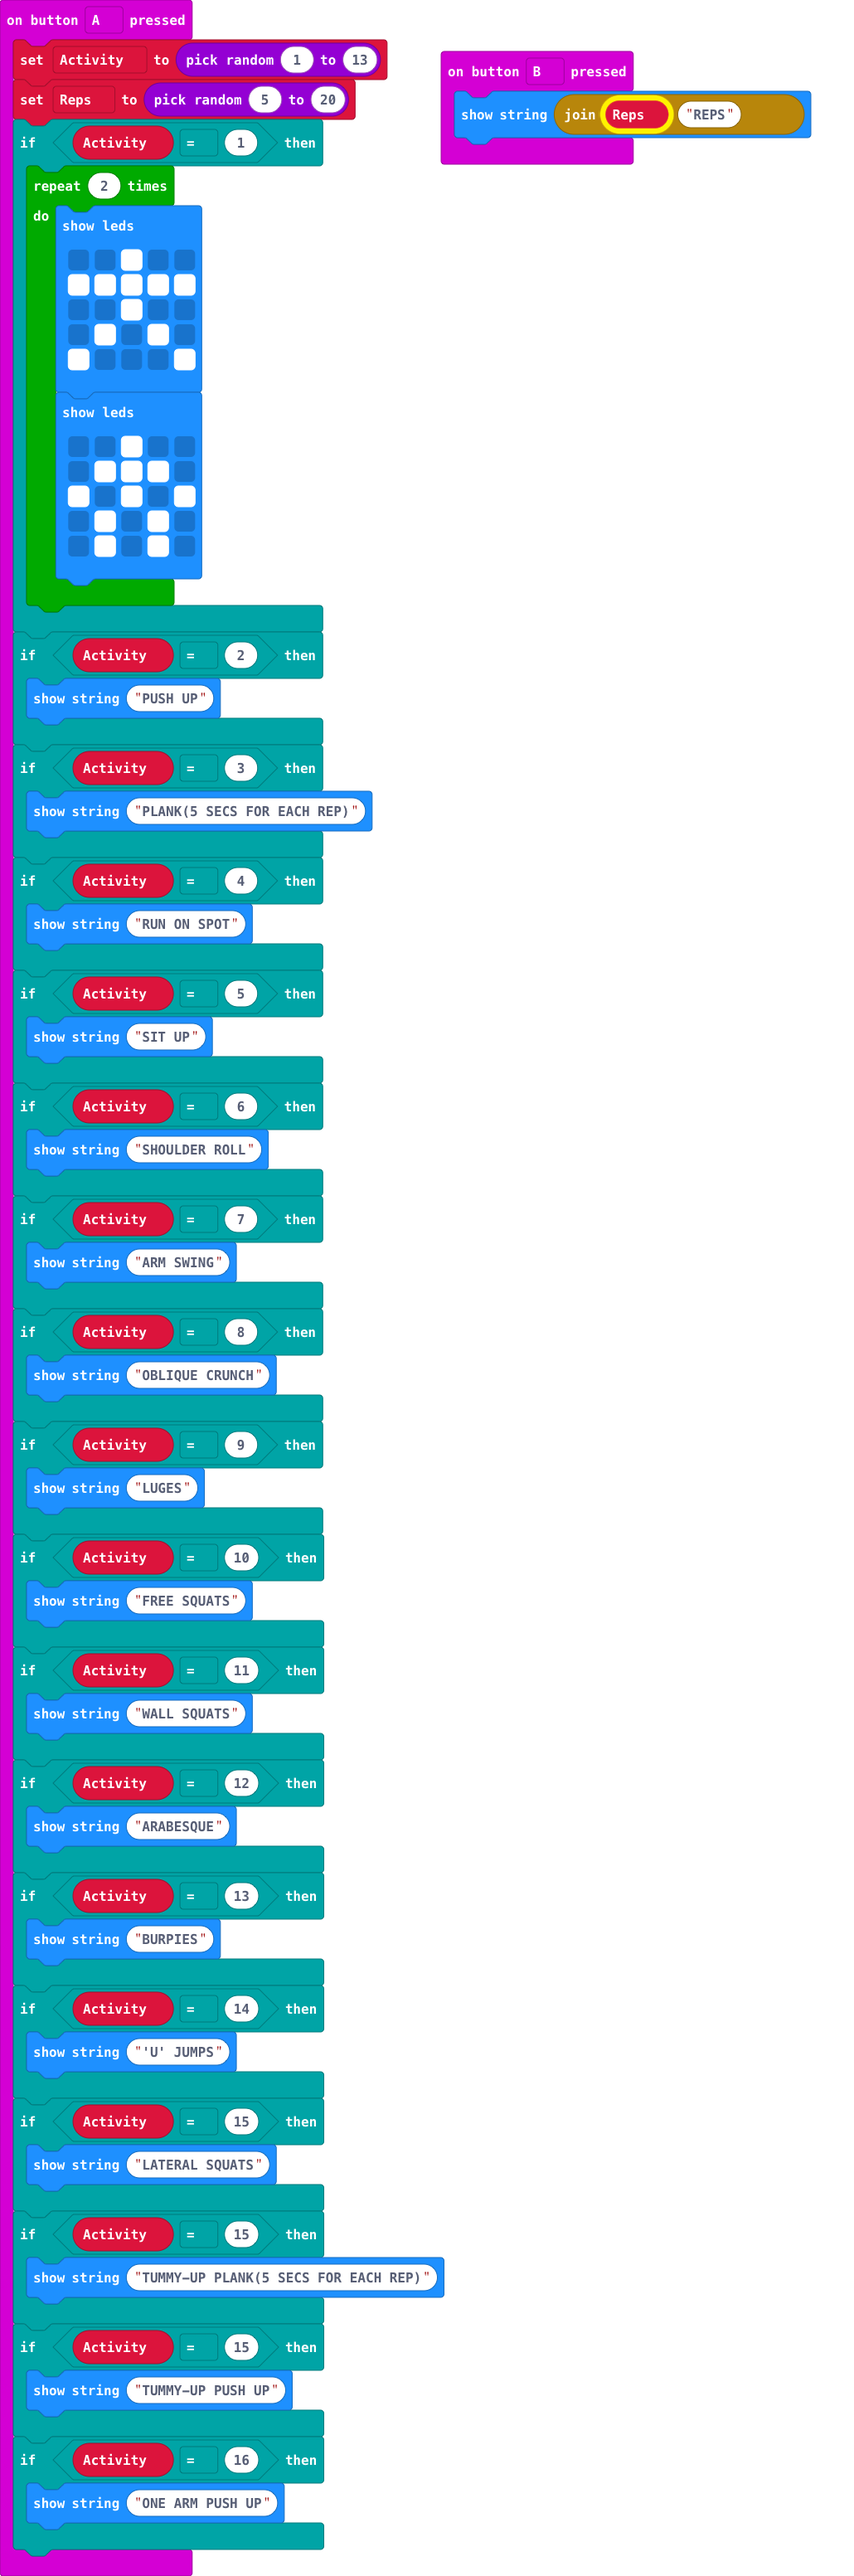
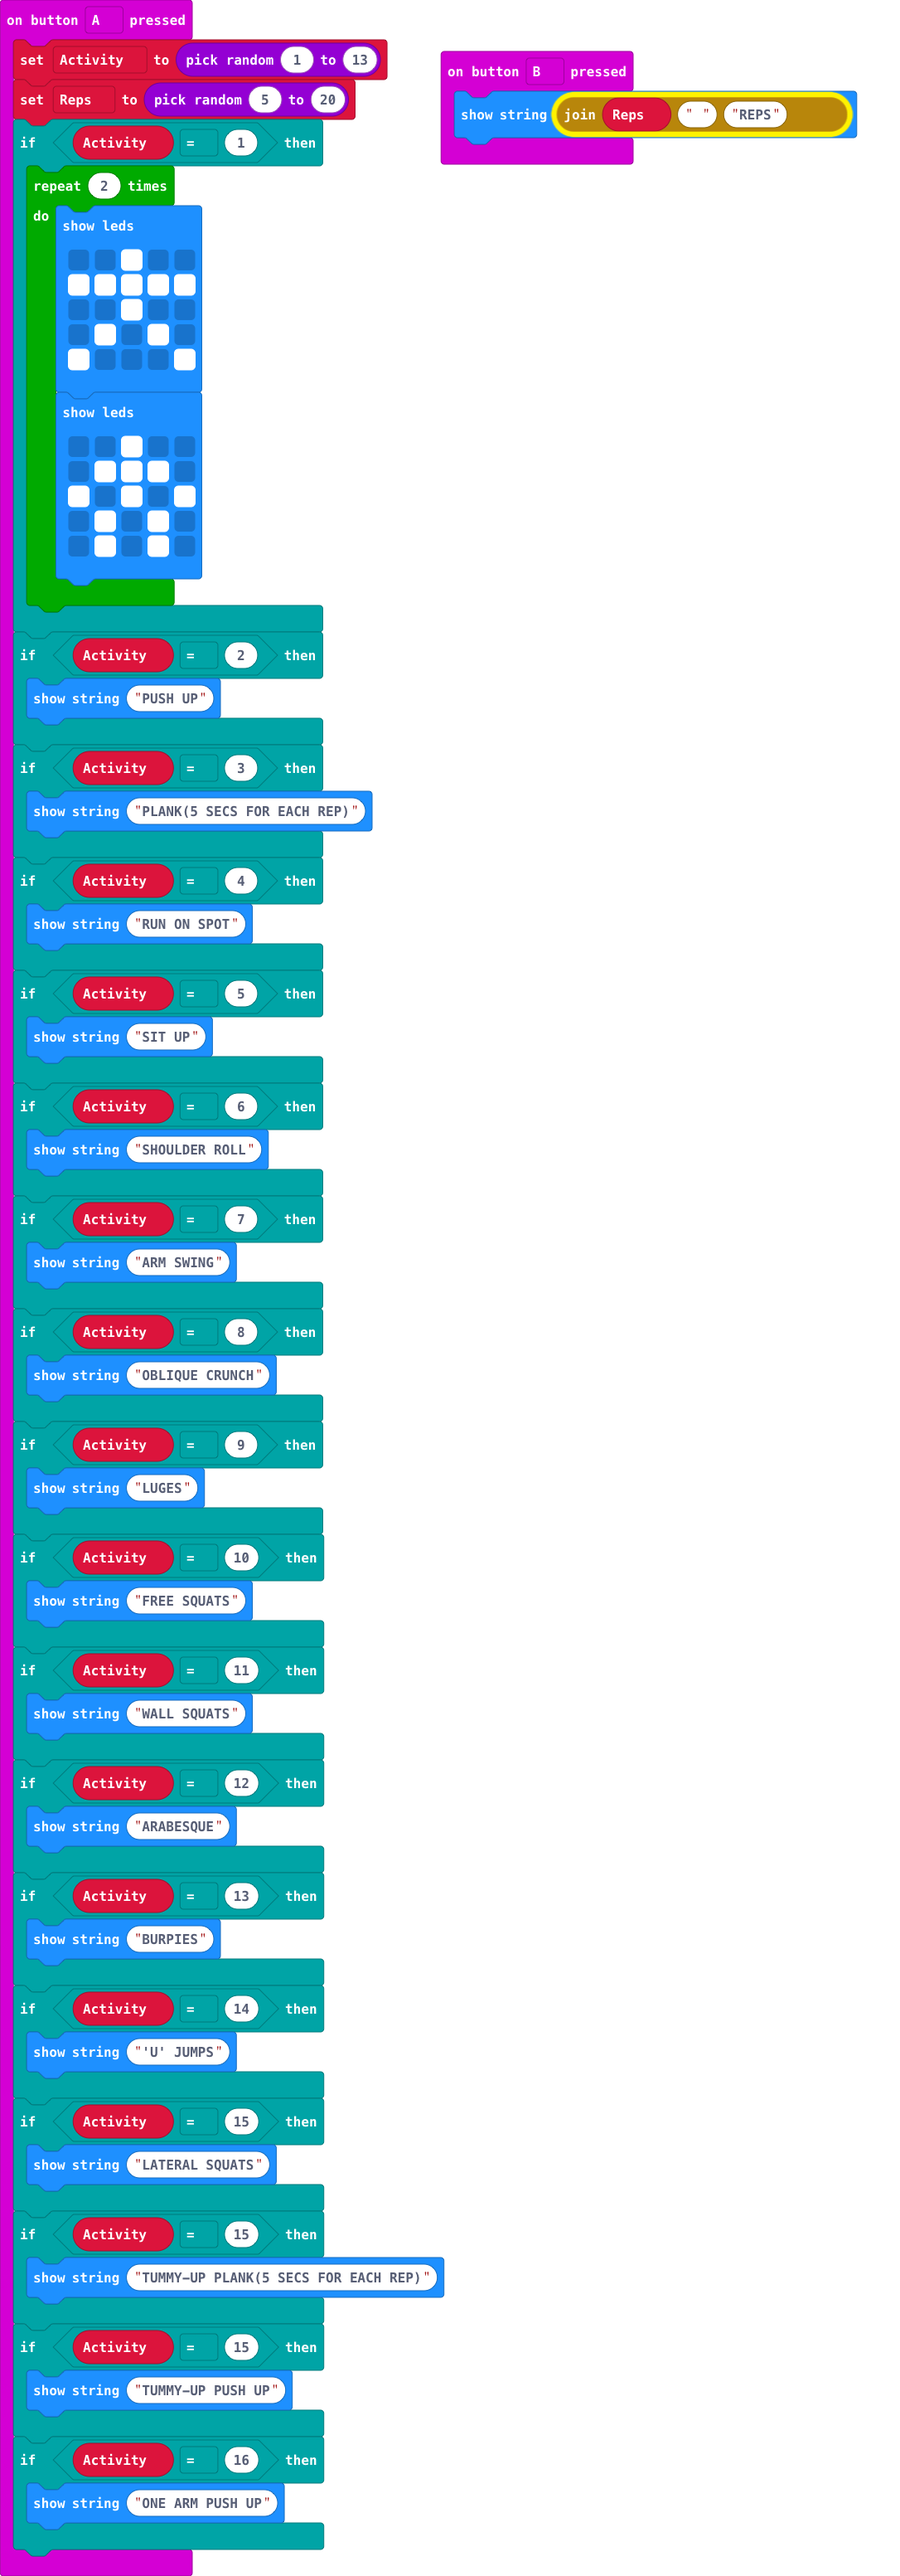
Update main.blocks, main.ts

diff --git a/main.ts b/main.ts
@@ -74,5 +74,5 @@ input.onButtonPressed(Button.A, function () {
     }
 })
 input.onButtonPressed(Button.B, function () {
-    basic.showString("" + Reps + "REPS")
+    basic.showString("" + Reps + " " + "REPS")
 })
